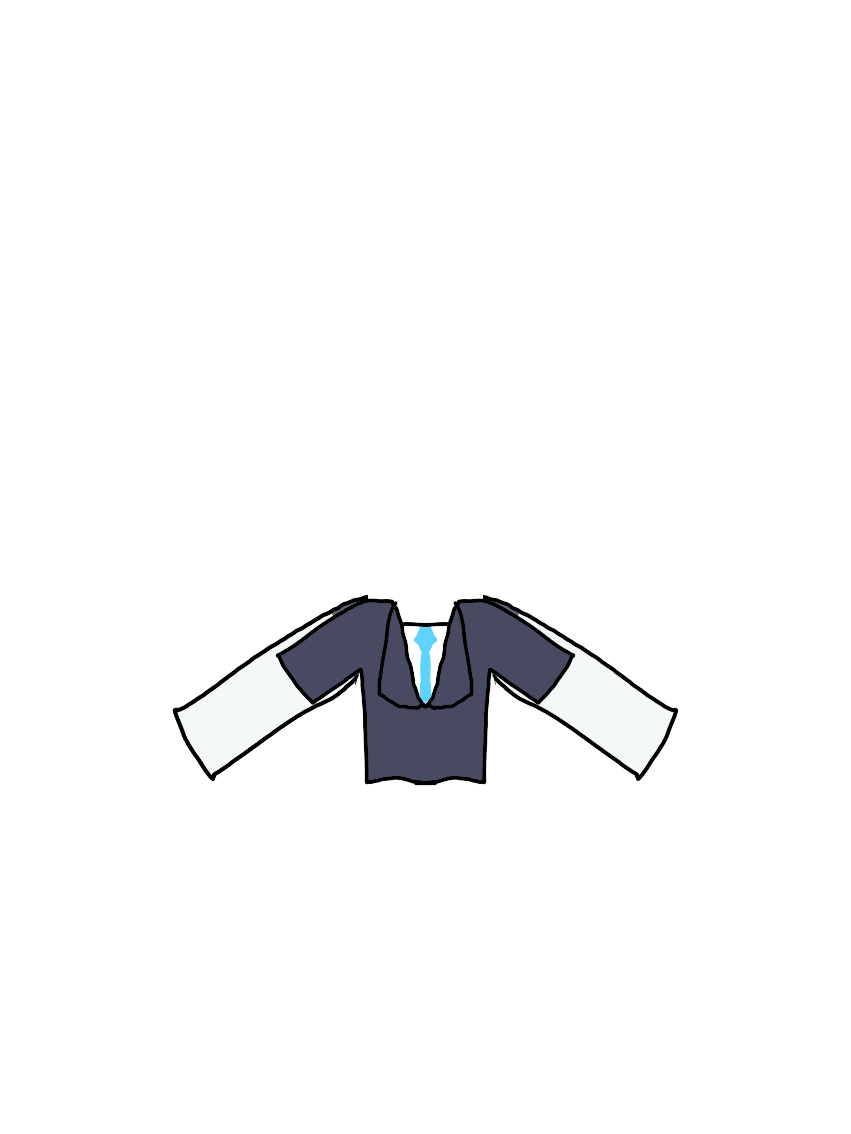
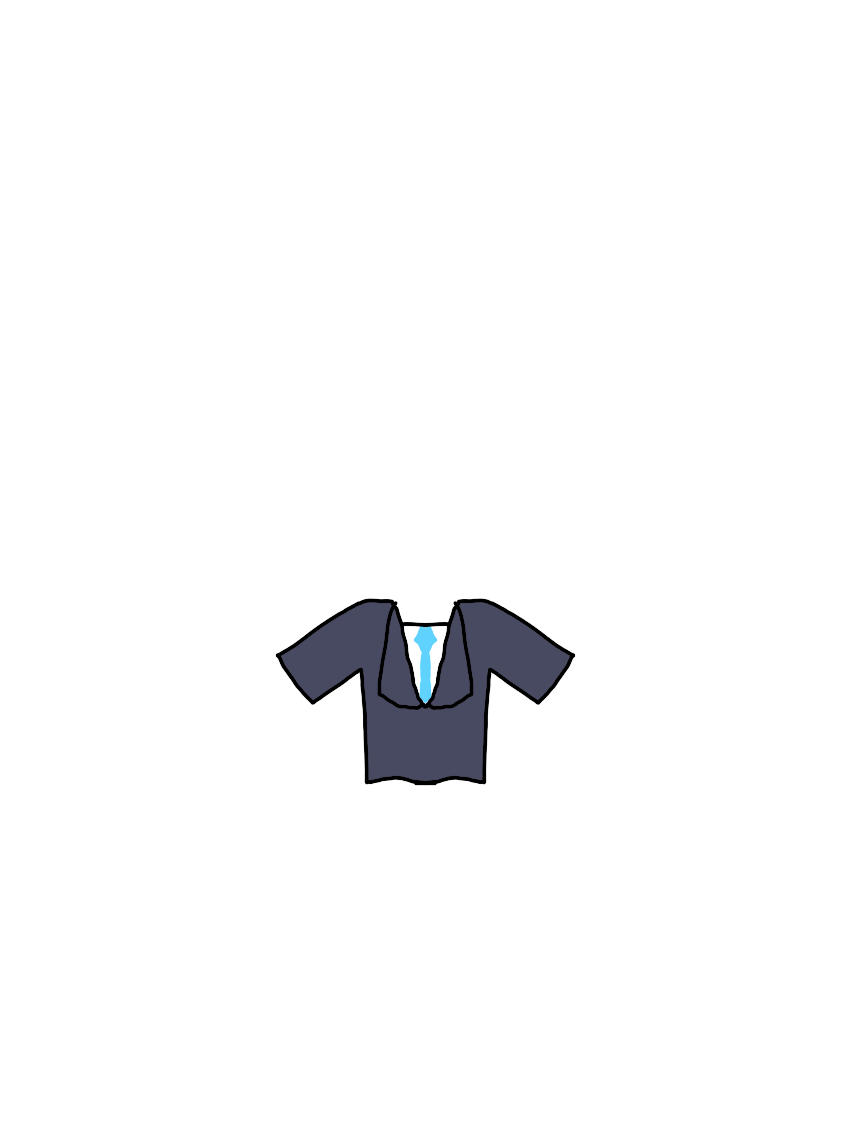
Split jacket sleeves out of the top into their own Jacket category
Claude-Session: https://claude.ai/code/session_01H839G1kH6FFFvxMWyLAkQa

diff --git a/outfit_config.js b/outfit_config.js
@@ -58,6 +58,7 @@ window.OUTFIT_CONFIG = {
     { key: "onepieceUnderwear", label: "One-Piece Underwear",       z: 65  },
     { key: "top",               label: "Top",                       z: 120 },
     { key: "bottom",            label: "Pants / Skirt",             z: 110 },
+    { key: "jacket",            label: "Jacket",                    z: 125 },
     { key: "dress",             label: "Dress",                     z: 130, blows: 820 },
     { key: "bodysuit",          label: "Bodysuit",                  z: 128 },
     { key: "socks",             label: "Socks",                     z: 85  },
@@ -78,6 +79,7 @@ window.OUTFIT_CONFIG = {
     onepieceUnderwear: ["onepieceunderwear1"],
     top:               [{ id: "top1", stiff: true }],
     bottom:            ["pants1", { id: "skirt1", blows: true }],
+    jacket:            ["jacket1"],
     dress:             ["dress1"],
     bodysuit:          ["bodysuit1"],
     socks:             ["socks1"],
@@ -92,6 +94,7 @@ window.OUTFIT_CONFIG = {
   // What the pet is wearing on a fresh start. Anything left out starts as None.
   defaults: {
     top: "top1",
+    jacket: "jacket1",
     topUnderwear: "topunderwear1",
     bottomUnderwear: "bottomunderwear1",
     bottom: "skirt1",

diff --git a/outfit_presets.js b/outfit_presets.js
@@ -30,7 +30,7 @@ window.OUTFIT_PRESETS = [
   {
     name: "Casual",
     emoji: "👕",
-    clothes: { top: "top1", topUnderwear: "topunderwear1", bottomUnderwear: "bottomunderwear1",
+    clothes: { jacket: "jacket1", top: "top1", topUnderwear: "topunderwear1", bottomUnderwear: "bottomunderwear1",
                bottom: "skirt1", socks: "socks1", shoes: "shoes1" },
   },
   {
